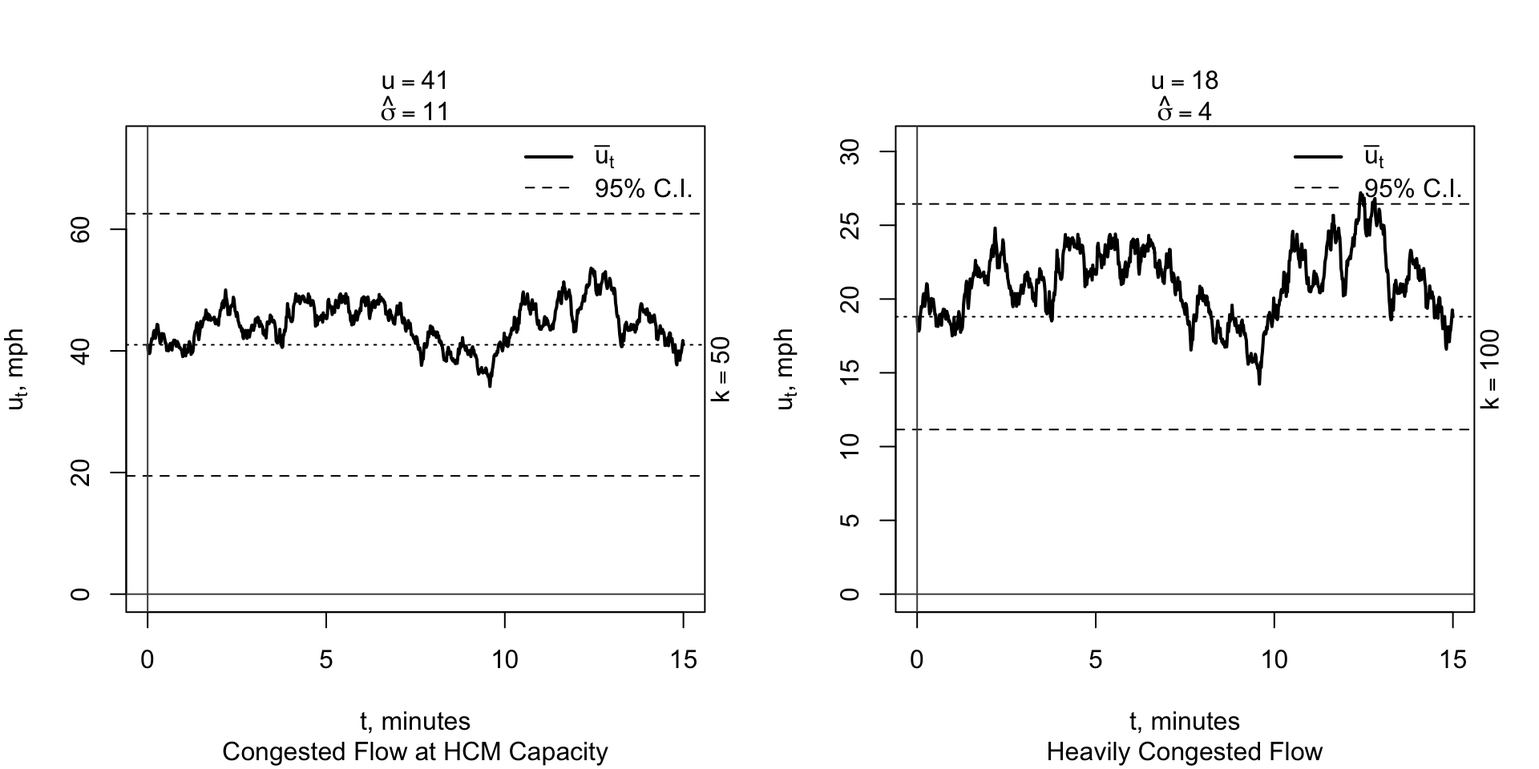
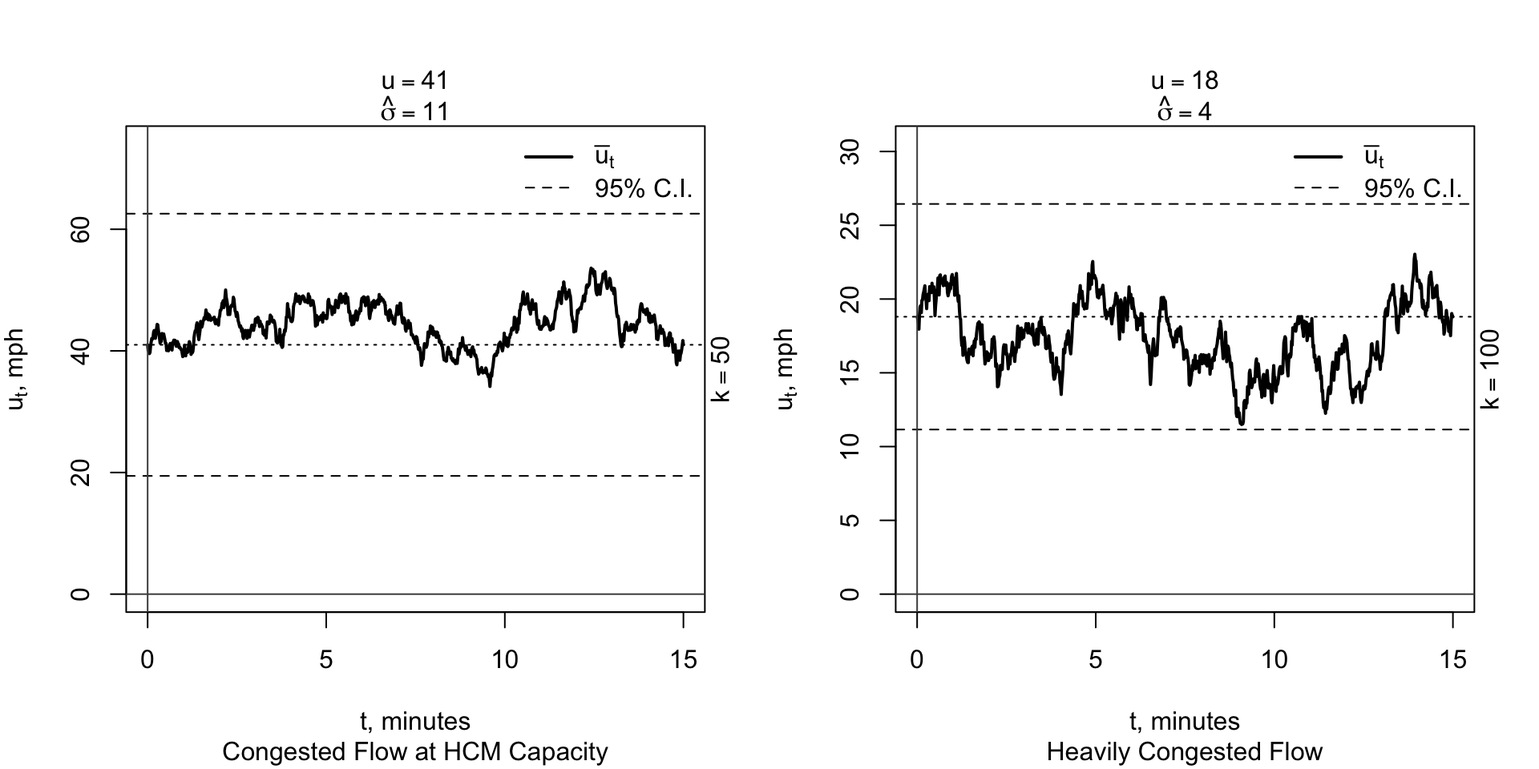
Laflamme observations

Changed region(s): [[0.5938, 0.25, 0.9688, 0.5625]]

diff --git a/Ring-Road.html b/Ring-Road.html
@@ -11,7 +11,7 @@
 
 
 
-<title>The Ring-Road Experiment</title>
+<title>Ring-Road Experiment</title>
 
 <script src="site_libs/jquery-1.11.3/jquery.min.js"></script>
 <meta name="viewport" content="width=device-width, initial-scale=1" />
@@ -174,7 +174,7 @@ $(document).ready(function () {
         <span class="icon-bar"></span>
         <span class="icon-bar"></span>
       </button>
-      <a class="navbar-brand" href="index.html">TFUHP Website</a>
+      <a class="navbar-brand" href="index.html">Cartools</a>
     </div>
     <div id="navbar" class="navbar-collapse collapse">
       <ul class="nav navbar-nav">
@@ -208,15 +208,15 @@ $(document).ready(function () {
 
 
 
-<h1 class="title toc-ignore">The Ring-Road Experiment</h1>
+<h1 class="title toc-ignore">Ring-Road Experiment</h1>
 
 </div>
 
 
 <p><strong>A Controlled Experiment</strong></p>
-<p>We continue our model building effort by simulating conditions observed on a <em>ring</em> or <em>loop road</em>. The <a href="https://www.youtube.com/watch?v=7wm-pZp_mi0">YouTube video</a> shows <span class="math inline">\(n\)</span> = 22 vehicles <span class="citation">(Sugiyama et al. 2008)</span>. The drivers cannot pass one another or enter or exit the loop. Each driver was instructed to maintain a same constant speed <span class="math inline">\(u\)</span>. The drivers cannot follow instructions. After a few sections, the traffic breaks down.</p>
-<p>Why? The video shows the vehicles to traveling at a reasonable speed. Initially, all vehicles are uniformly distributed around the circle. After a few seconds, the vehicles begin to interact because the drivers cannot maintain a constant speed. If we track a vehicle, we can see the speed will vary by a slight amount. Since their no room to move laterally, the drivers must follow and react to the situation directly in front of them.</p>
-<p>This behavior is a classic definition of <em>car-following.</em> The spacing between between vehicles, while it appears to be sufficient, is not. If other words, the traffic density <span class="math inline">\(k\)</span> is sufficiently large to cause the vehicles to interact, thus driving in a <em>congested state</em>. If there were fewer vehicles, i.e., driving in a <em>free-flow state</em>, then an individual driver could adjust his or her vehicle without affecting the vehicle behind it.</p>
+<p>We continue our model building effort by simulating conditions observed on a <em>ring</em> or <em>loop road</em>. The <a href="https://www.youtube.com/watch?v=7wm-pZp_mi0">YouTube video</a> shows <span class="math inline">\(n\)</span> = 22 vehicles <span class="citation">(Sugiyama et al. 2008)</span>. The drivers cannot pass one another or enter or exit the loop. Each driver was instructed to maintain a same constant speed <span class="math inline">\(u\)</span>. The drivers cannot follow instructions. After a few sections, the traffic breaks down, i.e., drivers cannot maintain speed <span class="math inline">\(u.\)</span></p>
+<p>Why? The video shows the vehicles to be traveling at a reasonable speed. Initially, all vehicles are uniformly distributed around the circle. After a few seconds, the vehicles begin to interact because the one or more drivers cannot maintain speed <span class="math inline">\(u\)</span>. If we track a vehicle, we can see the speed will vary by a slight amount. Since their no room to move laterally, the drivers must follow and react to the situation directly in front of them. This behavior is a classicly called <em>car-following.</em></p>
+<p>It is hypothesized that the vehicles described in the preceding paragragh are operating in a <em>congested state</em>. The spacing between vehicles, while it appears to be sufficient, is not. The number of vehicles on the road <span class="math inline">\(n\)</span> is sufficiently large to cause the vehicles to interact. Look at a pair of vehicles. If a <em>lead vehicle</em> decelerates to a slower speed than its <em>following vehicle</em> must slow down to avoid a crash. The following driver is risk averse. This interaction moves upstream causing other <em>leader-follower vehicle pairs</em> to slow down as well. If there are fewer vehicles, the space between vehicles, the <em>distance headway</em> then an individual driver can decelerate without affecting the vehicle behind it. The vehicles are operating in a <em>free-flow state</em>.</p>
 <p><strong>A Brownian Bridge Model of Speed</strong></p>
 <p>Can we explain this behavior mathematically? Consider the following approach:</p>
 <p>First, assume the speed of a vehicle to be the random variable <span class="math inline">\(U(t)\)</span> and assume the process is defined by a stationary time-series model of the form:</p>
@@ -230,39 +230,40 @@ $(document).ready(function () {
 <ul>
 <li><span class="math inline">\(k = n/2\pi r\)</span></li>
 </ul>
-<p>Knowing <span class="math inline">\(k\)</span>, select <span class="math inline">\(u\)</span> and <span class="math inline">\(\sigma\)</span>.</p>
-<p>Assigning <span class="math inline">\(u\)</span> and <span class="math inline">\(\sigma\)</span> are not clear-cut as originally envisioned. For one, <span class="math inline">\(U(t)\)</span> is a <em>microscale model</em> where driver reaction takes place on a time-scale of seconds and the density-speed plot is a <em>macroscale model</em> derived from 15-minute average data or <span class="math inline">\(\tau\)</span> data. The scales are incompatable.</p>
-<p>Second, the stationary time-series <span class="math inline">\(U(t)\)</span> model does not adequately explain driver behavior. Define the time-step equal to <span class="math inline">\(\Delta t = t_i - t_{i-1}\)</span> and for purposes of illustration, let <span class="math inline">\(\Delta t\)</span> = 1 second. Given <span class="math inline">\(Z\)</span> takes on both positive and negative values, a simulation can predict vehicle speeds flip-flopping back and forth from one second to the next. Obviously, a normal driver does not drive sporatically as described by the model. This flaw is rectified by replacing the <span class="math inline">\(\sigma Z\)</span> term with a Brownian motion term or:</p>
+<p>Knowing <span class="math inline">\(k\)</span>, select <span class="math inline">\(u\)</span> and <span class="math inline">\(\sigma\)</span>. Rewrite <span class="math inline">\(U(t)\)</span> as a function of <span class="math inline">\(k\)</span>:</p>
 <ul>
-<li><span class="math inline">\(U(t) = u + \sigma \sqrt{\Delta t} Z = u + \sigma W(t)\)</span>.</li>
+<li><span class="math inline">\(U(k,t) = u(k) + \sigma(k) * Z\)</span></li>
 </ul>
-<p><span class="math inline">\(W(t) = \sqrt{\Delta t} Z\)</span> term defines Brownian motion and is called the Wiener process. A driver will more smoothly accelerate or decelerate but without limit. Over an extended period of time, say <span class="math inline">\(\tau\)</span> = 15 minutes, speeds can reach extraordinary high or low speeds (negative traveling backwards) with this model. Of course, this is another unacceptable model.</p>
-<p>This problem is overcome by replacing <span class="math inline">\(W(t)\)</span> with a Brownian bridge model:</p>
+<p>Assigning <span class="math inline">\(u\)</span> and <span class="math inline">\(\sigma\)</span> are not clear-cut as originally envisioned. In addition to treating speed and speed volatity as functions of density, <span class="math inline">\(U(k, t)\)</span> is a <em>microscale model</em> where driver reaction takes place on a time-scale of seconds and the density-speed plot is a <em>macroscale model</em> derived from 15-minute average data or <span class="math inline">\(\tau\)</span> data. The scales are incompatable.</p>
+<p>Second, the stationary time-series <span class="math inline">\(U(k,t)\)</span> model does not adequately explain driver behavior in a rational manner. Define the time-step equal to <span class="math inline">\(\Delta t = t_i - t_{i-1}\)</span>. Given <span class="math inline">\(Z\)</span> takes on both positive and negative values, a simulation can predict vehicle speeds flip-flopping back and forth from one second to the next. Obviously, a normal driver does not drive sporatically as described by the model. This flaw is rectified by replacing the <span class="math inline">\(\sigma(k) * Z\)</span> term with a Brownian motion term or:</p>
 <ul>
-<li><span class="math inline">\(U(t) = u + \Lambda (W(t) - t/\tau * W(\tau))\)</span>,</li>
+<li><span class="math inline">\(U(k,t) = u(k) + \sigma(k) * \sqrt{\Delta t} Z = u(k) + \sigma(k) * W(\Delta t)\)</span>.</li>
 </ul>
-<p>as the following diagram illustrates for “Congested Flow at HCM Capacity” (HCM = Highway Capacity Manual) and “Heavly Congested” simulations for two <span class="math inline">\(k\)</span> assignments. After time <span class="math inline">\(\tau\)</span> = 15 minutes, the model forces a driver to travel at speed <span class="math inline">\(u\)</span> when <span class="math inline">\(\tau\)</span> = 15 minutes.</p>
+<p>where <span class="math inline">\(W(\Delta t)\)</span> is called Brownian motion and is defined as <span class="math inline">\(W(\Delta t) = \sqrt{\Delta t} * Z\)</span>. <span class="math inline">\(W(\Delta t)\)</span> is also called a Wiener process. It has an interesting property in that <span class="math inline">\(\sqrt{\Delta t}\)</span> is a measure of standard deviation. <span class="math inline">\(W(t + \Delta t) - W(t) \sim N(0, \Delta t) \sim \sqrt{\Delta t} * N(0,1)\)</span>. To simplify the discussion of the <span class="math inline">\(U(k,t)\)</span> model, we will assign <span class="math inline">\(\Delta t\)</span> = 1 and focus on <span class="math inline">\(\sigma(k)\)</span>.</p>
+<p>The simplified <span class="math inline">\(U(k,t)\)</span> model eliminates the sporatic flip-flopping described above. A driver will now more smoothly accelerate or decelerate. The model is still unacceptable over extended time periods. limit. For examples, say <span class="math inline">\(\tau\)</span> = 15 minutes, speeds can reach extraordinary high or low speeds. Negative speeds indicate vehicles are driving backward. Extraordinary high and low speeds are considered outliers because they do not represent reality.</p>
+<p>The outlier problem is overcome by replacing the Brownian motion <span class="math inline">\(U(k,t)\)</span> version of driver behavior with a <strong>Brownian bridge model</strong>:</p>
+<ul>
+<li><span class="math inline">\(U(k,t) = u(k) + \Lambda * \sigma(k) * (W(t) - t/\tau * W(\tau))\)</span>.</li>
+</ul>
+<p>The following two diagrams compare two simulations where <span class="math inline">\(k\)</span> = 50 and 100 vpm, respectively. They are labelled “Congested Flow at HCM Capacity” (HCM = Highway Capacity Manual) for <span class="math inline">\(k = 50\)</span> vpm and “Heavily Congested” simulations for <span class="math inline">\(k\)</span> = 100 vpm. The values of <span class="math inline">\(u(k)\)</span> and <span class="math inline">\(\sigma(k)\)</span> are obtained from the density-speed plot where <span class="math inline">\(\Lambda\)</span> is a model calibration factor to be discussed presently. First, we inspect the two simulations.</p>
 <p><img src="Ring-Road_files/figure-html/bridge-1.png" width="960" /></p>
-<p>Finally, there is a need for <span class="math inline">\(\Lambda\)</span>, the correction factor. If <span class="math inline">\(\Lambda\)</span> is assigned the value of 1, then the model can predict more volatile traffic speeds than shown here. By volatile the speeds can fall well outside its 95% confidence interval. The assignment of <span class="math inline">\(\Lambda\)</span> used an ad hoc, subjective procedure. A series of simulations for a given <span class="math inline">\(\Lambda\)</span>. If two many simulations fell outside the 95% CI, it was adjusted until was felt to be representative of the situation being simulated.</p>
-<p>The <span class="math inline">\(U(t)\)</span> model, a mechanistic model, <em>explains</em> driver behavior. A driver will travel at a speed in the neighborhood of <span class="math inline">\(u\)</span> over the time period from 0 to <span class="math inline">\(\tau\)</span> = 15 minutes as common sense tells us.</p>
-<p><strong>Time-Distance Trajectories</strong></p>
-<p>The <span class="math inline">\(U(t)\)</span> model was subject to another test. Does the model predict driver behavior that is similar to that shown in the YouTube video? A same instructions given to the drivers of the Yuki Sugiyama experiment are assumed for the computer simulation that produced the following <span class="math inline">\(t-x\)</span> trajectories. The drivers are instructed to maintain a constant speed <span class="math inline">\(u\)</span> and headway <span class="math inline">\(h\)</span>. The vehicles are evenly placed along the <span class="math inline">\(x\)</span> axis at <span class="math inline">\(t\)</span> = 0.</p>
-<p><img src="Ring-Road_files/figure-html/ringroad1-1.png" width="960" /></p>
-<p>As in the full-scale experiment, the simulated drivers cannot maintain a constant speed or even spacing. After a few seconds, the vehicles begin to interact and form clusters (moving queues) and the traffic breaks down. <em>Clearly, traffic volatility plays an important role.</em></p>
+<p>After time <span class="math inline">\(\tau\)</span> = 15 minutes, the Brownian bridge model forces a driver to travel at his or her initial speed <span class="math inline">\(u(k)\)</span>, the speed at time <span class="math inline">\(t\)</span> = 0. Between times <span class="math inline">\(t\)</span> = 0 and 15 minutes, the drivers are free to decelerate and accelerate, more-or-less, smoothly as would be expected.</p>
+<p>Each Brownian bridge model simulation gives a different perspective about a driver’s behavior. Some simulations suffered from the outlier problem. It is reasonable to assume that a driver will travel at a speed in the neighborhood of <span class="math inline">\(u\)</span> over a time ranging from 0 to <span class="math inline">\(\tau\)</span> = 15 minutes. We would expect that the true mean speed will lie with a 95% confidence interval (C.I.). A series of computer simulations were run, speeds plotted over time, and subjectively tested where <span class="math inline">\(\Lambda\)</span>, the calibration factor, is was initially set to one. Too many simulations fell outside the 95% C.I. range. The <span class="math inline">\(\Lambda\)</span> values were adjusted until it was felt that the situation being simulated was realistic. The <span class="math inline">\(\Lambda\)</span> values for <span class="math inline">\(k\)</span> = 50 and 100 vpm are 0.75 and 0.5, respectively. The assignment of <span class="math inline">\(\Lambda\)</span> rests on well accepted statistical analysis procedures and common sense.</p>
 <p><strong>Highway Safety</strong></p>
-<p>The <span class="math inline">\(U(t)\)</span> model incorporates two important features: (1) <em>driver performance in a car-following situation</em> and (2) <em>safety</em>. All drivers are assumed to maintain a <em>safe driving distance</em> when driving in the congested or free-flow states or</p>
+<p>The Brownian bridge model described thus far is for a single vehicle. It must be further adapted to simulate: (1) <em>driver performance in a car-following situation</em> and (2) <em>safety</em>. These two features are incorporated into the <strong>R cartools</strong> algorithms. Car-following and safety are strongly associated because drivers are typically risk averse. Drivers avoid crashes.</p>
+<p>Consider a pair of vehicles, one is designated as a <em>leader</em> and the other one designated as a <em>follower</em>. At each time-step in the simulation algorithm, the locations and speeds of the lead and following vehicles and the headway between the two vehicles are calculated. A <em>safe driving distance</em>, a distance headway, is defined by the following function:</p>
 <ul>
-<li><span class="math inline">\(h_{safe} = f(u)\)</span>,</li>
+<li><span class="math inline">\(h_{safe} = f(u(k), l_{eff})\)</span>,</li>
 </ul>
-<p>which depends on the vehicle speed <span class="math inline">\(u\)</span>. The safety effects are most easily explained with the use of the dotted lines shown in the figures above. The dotted straight line is the trajectory of the lead vehicle, assuming that its driver could maintain a constant speed. Since <span class="math inline">\(x = u * t\)</span>, the slope of the dotted straight line is <span class="math inline">\(u\)</span>. Consider a pair of vehicles, one designated as a <em>leader</em> and the other one designated as a <em>follower</em>. At each time-step, the locations and speeds of the lead and following vehicles and the headway between the two vehicles are calculated. If there is a safe headway violation, the following vehicle locations and speeds are adjusted to eliminate the violation. If the lead vehicle slows, the following vehicle must slowdown to avoid a crash if too close. Under a less dense condition, the drivers can vary their speeds without affecting one another.</p>
-<p><strong>Traffic Flow</strong></p>
-<p>Since <span class="math inline">\(n\)</span> is a constant, <span class="math inline">\(k = n/2\pi r\)</span> is a constant. The flow is a random variable, defined as:</p>
-<ul>
-<li><span class="math inline">\(Q(t) = k * U(t)\)</span></li>
-</ul>
-<p>The volatility in <span class="math inline">\(Q(t)\)</span> is explained exclusively by the volatility in <span class="math inline">\(U(t)\)</span> as defined by the Brownian bridge model of speed.</p>
-<p><strong>Summary</strong></p>
-<p>The <span class="math inline">\(Q(t) = k * U(t)\)</span> model suggests a <em>cause-effect relationship</em> exists. The speed as specified by <span class="math inline">\(u\)</span> and <span class="math inline">\(\sigma\)</span> are the causal factors and <span class="math inline">\(Q(t)\)</span> is the response variable. The probability of being in a congested state is forecast to be a function of <span class="math inline">\(k\)</span>, <span class="math inline">\(\pi(k)\)</span>.</p>
+<p>where <span class="math inline">\(u(k)\)</span> is the vehicle speed at density <span class="math inline">\(k\)</span> and <span class="math inline">\(l_{eff}\)</span> is the effective vehicle length. A driver is assumed to keep one vehicle length for each ten mph. At slow speeds, <span class="math inline">\(h_{safe}\)</span> = two-vehicle lengths or twenty-eight feet headway.</p>
+<p>If there is a safe headway violation, the following vehicle locations and speeds are adjusted to eliminate the violation. If the lead vehicle slows, the following vehicle must slowdown to avoid a crash if too close. Under a less dense condition, the drivers can vary their speeds without affecting one another.</p>
+<p>The Brownian bridge computer simulation model, <strong>rrtrials</strong>, a mechanistic model, is a function of <span class="math inline">\(k, u, \sigma\)</span> and <span class="math inline">\(l_{eff}\)</span>.</p>
+<p><strong>Time-Distance Trajectories</strong></p>
+<p>The <strong>rrtrials</strong> was subject to another test. The critical question is: Does <strong>rrtrials</strong> predict driver behavior that is similar to that shown in the YouTube video? <strong>rrtrials</strong> produced the following <span class="math inline">\(t-x\)</span> trajectories. The vehicles are evenly placed along the <span class="math inline">\(x\)</span> axis at <span class="math inline">\(t\)</span> = 0 and the drivers are given the same instructions as the drivers in the Yuki Sugiyama experiment. They are instructed to maintain a constant speed <span class="math inline">\(u\)</span> and headway <span class="math inline">\(h\)</span>.</p>
+<p><img src="Ring-Road_files/figure-html/ringroad1-1.png" width="960" /></p>
+<p>As in the full-scale experiment, the simulated drivers cannot maintain a constant speed or even spacing. After a few seconds, the vehicles begin to interact and form clusters (moving queues) and cannot maintain the constant speeds <span class="math inline">\(u\)</span> is either simulation.</p>
+<p>The volatity effects of <span class="math inline">\(\sigma(k)\)</span> are easily evaluated with visual inspection of the dotted lines shown in the figures above. The dotted straight line is the trajectory of the lead vehicle, assuming that its driver could maintain a constant speed <span class="math inline">\(u\)</span> with <span class="math inline">\(\sigma(k)\)</span> = 0. Since <span class="math inline">\(x = u * t\)</span>, the slope of the dotted straight line is <span class="math inline">\(u\)</span>. Most vehicles in the <strong>rrtrials</strong> simulation tend to lose speed.</p>
+<p>Given these results, <strong>rrtrials</strong> simulator matches the results observed in the controlled experiment. While there are many variables that are needed to define the results, speed volatility <span class="math inline">\(\sigma\)</span> and the Brownian bridge <span class="math inline">\(U(k,t)\)</span> are most important.</p>
 <p><strong>Reference</strong></p>
 <div id="refs" class="references">
 <div id="ref-1367-2630-10-3-033001">

diff --git a/about.html b/about.html
@@ -174,7 +174,7 @@ $(document).ready(function () {
         <span class="icon-bar"></span>
         <span class="icon-bar"></span>
       </button>
-      <a class="navbar-brand" href="index.html">TFUHP Website</a>
+      <a class="navbar-brand" href="index.html">Cartools</a>
     </div>
     <div id="navbar" class="navbar-collapse collapse">
       <ul class="nav navbar-nav">
@@ -213,7 +213,7 @@ $(document).ready(function () {
 </div>
 
 
-<p>To develop a successful transportaion operation and management plan, there is a clear need for understanding of the process being operated and managed. The decision-making framework presented in the <strong>Drivers</strong> section, <em>The Learning Process</em>, will be used here and in subsequent analyses. It is worth repeating that our principal aim is to explain highway performance realisticly using simple, easy-to-understand models. This is not easy task because traffic data are noisy. A conceptual model derived from a simple sampling experiment was propoed:</p>
+<p>To develop a successful transportaion operation and management plan, there is a clear need for understanding of the process being operated and managed. The decision-making framework presented in the <strong>Drivers</strong> section, <em>The Learning Process</em>, will be used here and in subsequent analyses. It is worth repeating that our principal aim is to explain highway performance realisticly using simple, easy-to-understand models. This is not easy task because traffic data are noisy. A conceptual model derived from a simple sampling experiment is proposed:</p>
 <p><span class="math inline">\(\pi(n) = P(X = 1|N = n) = P(U &lt; u^*|N = n)\)</span>,</p>
 <p>The model has limitations:</p>
 <ol style="list-style-type: decimal">
@@ -226,24 +226,26 @@ $(document).ready(function () {
 <ol style="list-style-type: decimal">
 <li>The <em>fundational relationship</em>, <span class="math inline">\(q = k * u\)</span>, is introduced into the analysis where <span class="math inline">\(u\)</span>, <span class="math inline">\(k\)</span> and <span class="math inline">\(q\)</span> are defined to be traffic speed, measured in miles per hour (mph), traffic density, measured in vehicles per mile per lane (vpm) and traffic flow, measured in vehicles per hour per lane (vph), respectively.</li>
 <li>The findings from a <strong>ring-road</strong> experiment, a controlled experiment, is introduced into the analysis. A critical feature of the experiment is number of vehicles in the investigation is that <span class="math inline">\(n\)</span> is fixed number, a constant.</li>
-<li>Concepts of derived from elementary car following models are introduced into the analysis to account for driver reactions due to changes of traffic behavior over time. Vehicle length <span class="math inline">\(l\)</span>, measured in feet, and safe driving headway <span class="math inline">\(h = h(u)\)</span>, measured in feet and function of speed <span class="math inline">\(u\)</span> are also introduced.</li>
+<li>Concepts of derived from elementary car following models are introduced into the analysis to account for driver reactions due to changes of traffic behavior over time. Vehicle length or effective length <span class="math inline">\(l_{eff}\)</span>, measured in feet, and safe driving headway <span class="math inline">\(h_{safe} = f(u)\)</span>, measured in feet and function of speed <span class="math inline">\(u\)</span> are also introduced.</li>
 </ol>
-<p>It is worth noting that an exploratory data analysis is primary focus used in this section. A logistic regression model, denoted as <span class="math inline">\(\pi(k)\)</span>, will replace <span class="math inline">\(\pi(n)\)</span> where traffic density <span class="math inline">\(k\)</span> is an explanatory variable.</p>
+<p>It is worth noting that an exploratory data analysis is primary focus used in this section. A logistic regression model, denoted as <span class="math inline">\(\pi(k)\)</span>, will replace <span class="math inline">\(\pi(n)\)</span> where traffic density <span class="math inline">\(k\)</span> is an explanatory variable. Traffic density is defined as the number of vehicles per unit length <span class="math inline">\(l\)</span> or <span class="math inline">\(k = n/l\)</span>.</p>
 <p><strong>Exploratory Data Analysis</strong></p>
-<p>Our first step is to glean as much information as possible from an exploratory data analysis. <em>Raw, real-world data</em>, data collected on the northbound lane on interstate I-93 in Salem, New Hampshire contains 20,656 recordings of <span class="math inline">\(q\)</span>, <span class="math inline">\(k\)</span> and <span class="math inline">\(u\)</span> that were made over a period of eight months. The speed recordings are aggregate values, estimated as space-mean speeds <span class="math inline">\(u = n/(1/\sum u_i)\)</span> where <span class="math inline">\(u_i\)</span> is an individual observation made in a 15-minute interval, <span class="math inline">\(i = 1,2,..., n\)</span> is vehicle identification number, and <span class="math inline">\(n\)</span> is the total number of vehicles observed in the interval. The flow for the interval is calculated as <span class="math inline">\(q = n/\tau\)</span> where <span class="math inline">\(\tau\)</span> is 15-minutes. The density is derived from the <em>fundamental relationship</em> of traffic flow <span class="math inline">\(q = k * u\)</span>. Thus, the density is estimated as <span class="math inline">\(k = q/u\)</span>.</p>
-<p>Next, we look for meaningful relationships using scatter plots and box plots. We also keep in the back of our minds that the <strong>ring-road</strong> experiment that <span class="math inline">\(n\)</span> is fixed and can be easily transformed to a density measurement as <span class="math inline">\(k = n/l\)</span> because the road length <span class="math inline">\(l\)</span> is also a fixed number. Once these relationships are revealed, the next steps is to develop mathematical models that capture these relationships. Since the <em>Learning Process</em> is used, models are critically analyzed. The aim is to justify the replacement of the <span class="math inline">\(\pi(n)\)</span> model with a logistic model of traffic density <span class="math inline">\(\pi(k)\)</span>.</p>
+<p>Our first step is to glean as much information as possible from an exploratory data analysis. <em>Raw, real-world data</em>, data collected on the northbound lane on interstate I-93 in Salem, New Hampshire contains 20,656 recordings of <span class="math inline">\(q\)</span>, <span class="math inline">\(k\)</span> and <span class="math inline">\(u\)</span>. The recording were made over a contiguous period of eight months. The individual observations of <span class="math inline">\(q\)</span>, <span class="math inline">\(k\)</span> and <span class="math inline">\(u\)</span> are estimated as follows: (1) A flow is estimated as <span class="math inline">\(q = m/\tau\)</span> where <span class="math inline">\(m\)</span> is a vehicle count, the total number of vehicles observed over a 15-minute time interval or <span class="math inline">\(\tau\)</span> = 15-minutes. (2) Speed is estimated as space-mean speed where <span class="math inline">\(u = m/(1/\sum u_j)\)</span> where <span class="math inline">\(u_j\)</span> is a radar speed recording for vehicle <span class="math inline">\(j = 1,2,..., m\)</span>. (3) Density is derived from the <em>fundamental relationship</em> of traffic flow <span class="math inline">\(q = k * u\)</span> or <span class="math inline">\(k = q/u\)</span>.</p>
+<p>Next, we look for meaningful relationships using scatter plots and box plots. We also keep in the back of our minds that the <strong>ring-road</strong> experiment that <span class="math inline">\(n\)</span> is fixed and can be easily transformed to a density measurement as <span class="math inline">\(k = n/l\)</span> because the road length <span class="math inline">\(l\)</span> is also a fixed number.</p>
+<p>Once these relationships are revealed, the next steps is to develop mathematical models that capture these relationships. Since the <em>Learning Process</em> is used, models are critically analyzed. The aim is to justify the replacement of the <span class="math inline">\(\pi(n)\)</span> model with a logistic model of traffic density <span class="math inline">\(\pi(k)\)</span>.</p>
 <p><img src="about_files/figure-html/speedplot-1.png" width="384" /></p>
-<p>The <strong>Flow-Speed Plot</strong> reveals much about the traffic at the site. As mentioned many times previously, the data are <em>extremely noisy</em>, making it difficult to reveal clear-cut patterns in the data. By using scaling and color shading of the <span class="math inline">\(k\)</span> dots, the scatter plot become enhanced, making it easier to reveal patterns in the data. The smaller/black dots indicate fewer vehicles per mile than the large/blue dots.</p>
-<p>Even though the data are noisy, patterns are revealed. For one, speeds between 60 and 80 an increase in flow. The densities over this range increase but for the most part, do not exceed <span class="math inline">\(k \le 70\)</span> vpm. Given these results, the critical speed was chosen to be <span class="math inline">\(u^* =\)</span> 50 mph. Low speeds and high densities, <span class="math inline">\(u \le u^*\)</span> and <span class="math inline">\(k &gt; 70\)</span> vpm, tend to be associated with congested state <span class="math inline">\(X = 1\)</span> or <span class="math inline">\(U &lt; u^*\)</span>.</p>
-<p>Since the “controlled” ring-road experiment used a fixed value of <span class="math inline">\(k\)</span>, the relationship between <span class="math inline">\(k\)</span> and <span class="math inline">\(u\)</span> was explored with the <strong>Box Plot of Density-Speed</strong>. To construct this diagram, the speeds were sorted and placed into bins. For example, the labeled as <span class="math inline">\(k^*\)</span> = 45 vpm consists of observations ranging 42.5 to 47.5 vpm. This value of <span class="math inline">\(k^*\)</span> is taken from the Highway Capacity Manual (HCM), which defines it to be the roadway capacity for this geometric design.</p>
-<p>Visual inspection reveals that the chance of driving in a free-flow state, <span class="math inline">\(u^* &gt; 50\)</span>, is greater when <span class="math inline">\(k^* \le 45\)</span> vpm. The interquartile range of speed is extremely tight for <span class="math inline">\(k^* \le 45\)</span> vpm. Excluding outliners, a driver can be assured that speeds of 70 mph or more can be expected. With the exception of the bin at <span class="math inline">\(k\)</span> = 50 vpm, speeds considerably less than 25 mph is expected for <span class="math inline">\(k^* \ge 55\)</span> vpm. It is impossible to explain why so many congested speed observations are located in the <span class="math inline">\(0 &lt; k \le 50\)</span> range. For <span class="math inline">\(k &gt; 50\)</span> vpm, a good case can be made that a congested state will be observed.</p>
+<p>The <strong>Flow-Speed Plot</strong> reveals much about the traffic at the site. As mentioned many times previously, the data are <em>extremely noisy</em>, making it difficult to reveal clear-cut patterns in the data. By using scaling and color shading of the <span class="math inline">\(k\)</span> dots, the scatter plot becomes enhanced, making it somewhat easier but still difficult to reveal patterns or associations in the data.</p>
+<p>The scatter plot is most helpful in defining the free-flow and congested states. A critical speed is chosen to be $u^* = $ 50 mph. A <em>free-flow</em> state, <span class="math inline">\(X = 0\)</span>, satisfies the inequality <span class="math inline">\(u &gt; u^*\)</span> and a congested state, <span class="math inline">\(X = 1\)</span>, satisfies the inequality <span class="math inline">\(u \leq u^*\)</span>. The smaller/black dots indicate fewer vehicles per mile than the large/blue dots. Low speeds and high densities, <span class="math inline">\(u \le u^*\)</span> and <span class="math inline">\(k &gt; 70\)</span> vpm, tend to be associated with congested state <span class="math inline">\(X = 1\)</span>.</p>
+<p>Since the “controlled” ring-road experiment used a fixed value of <span class="math inline">\(k\)</span>, the relationship between <span class="math inline">\(k\)</span> and <span class="math inline">\(u\)</span> was explored with the <strong>Box Plot of Density-Speed</strong>. To construct this diagram, the speeds were sorted and placed into bins. For example, the labeled as <span class="math inline">\(k^*\)</span> = 45 vpm consists of observations ranging 42.5 to 47.5 vpm. The Highway Capacity Manual (HCM) defines capacity of a interstate freeway lane to be <span class="math inline">\(k^*\)</span> = 45 vpm.</p>
+<p>Visual inspection reveals that the chance of driving in a free-flow state, <span class="math inline">\(X = 0\)</span>, is greater when <span class="math inline">\(k^* \le 45\)</span> vpm. <span class="math inline">\(X = 1\)</span> speeds are considerably less than 25 mph when <span class="math inline">\(k^* \ge 50\)</span> vpm. It is impossible to explain why so many congested speed observations are located in the <span class="math inline">\(0 &lt; k \le 50\)</span> range. For <span class="math inline">\(k &gt; 50\)</span> vpm, a good case can be made that a congested state will be observed.</p>
 <p><img src="about_files/figure-html/speedboxplot-1.png" width="480" /></p>
 <p><strong>A Logistic Regression Model</strong></p>
 <p>The data set that was used to create the <strong>Box Plot of Density-Speed</strong> was also used to fit a <span class="math inline">\(\pi(k)\)</span> model, a logistic model of the form,</p>
 <p><span class="math inline">\(\pi(k) = \frac{exp(\alpha + \beta * k)}{1 + exp(\alpha + \beta * k)}\)</span></p>
-<p>where <span class="math inline">\(\alpha\)</span> = -12.3 and <span class="math inline">\(\beta\)</span> = 0.265. This model replaces the <span class="math inline">\(\pi(n)\)</span> model above. The data set consists of <span class="math inline">\(i\)</span> = 1,2,…,24 observations of <span class="math inline">\(k_i\)</span> and proportion estimates of <span class="math inline">\(p_i\)</span> where <span class="math inline">\(p_i = m_i/n_i\)</span>. <span class="math inline">\(m_i\)</span> and <span class="math inline">\(n_i\)</span> are equal to the number of speed observations satisfying the equality <span class="math inline">\(u &lt; u^*\)</span> and to the number of <span class="math inline">\(k_i\)</span> observations in bin <span class="math inline">\(i\)</span>. The <span class="math inline">\(p_i\)</span> values are shown in the following plot as solid circles and the forecasts of <span class="math inline">\(\pi[k_i]\)</span> are shown as open circles. There is a good model fit. <span class="math inline">\(\pi(k = 45)\)</span> and <span class="math inline">\(\pi(k = 50)\)</span> = 0.41 and 0.8, respectively.</p>
+<p>where <span class="math inline">\(\alpha\)</span> = -12.3 and <span class="math inline">\(\beta\)</span> = 0.265. This model replaces the <span class="math inline">\(\pi(n)\)</span> model above. The data set consists of <span class="math inline">\(i\)</span> = 1,2,…,24 density bins, denoted as <span class="math inline">\(k_i\)</span>, and <span class="math inline">\(p_i\)</span> proportions where <span class="math inline">\(p_i = m_i/n_i\)</span> <span class="math inline">\(m_i\)</span> and <span class="math inline">\(n_i\)</span> are equal to the number of speed observations satisfying the equality <span class="math inline">\(u &lt; u^*\)</span> and to the number of <span class="math inline">\(k_i\)</span> observations in bin <span class="math inline">\(i\)</span>. The <span class="math inline">\(p_i\)</span> values are shown in the following plot as solid circles and the forecasts of <span class="math inline">\(\pi(k_i)\)</span> are shown as open circles. The model fits the data well.</p>
 <p><img src="about_files/figure-html/logisticmodel-1.png" width="480" /></p>
-<p>The logistic regression model of <span class="math inline">\(\pi(k)\)</span> uses <em>macroscale data</em>, data averaged over 15-minute intervals. Driver reaction takes place in time measured in seconds. To fully understand an explain driver behavior, a <em>microscale model</em>, a time series model of speed <span class="math inline">\(U(t)\)</span> where is measured in second, is introduced.</p>
+<p>The model forecasts that a freeway will be in a congested state <span class="math inline">\(X = 1\)</span> with a probability of <span class="math inline">\(\pi(k^* = 45)\)</span> = 0.41 at the HCM <span class="math inline">\(k^*\)</span> = 45 vpm. A slight increase in traffic density to 50 shows a significant increase in the forecast, <span class="math inline">\(\pi(k = 50)\)</span> = 0.8. This analysis shows the importance of traffic density in explaining the risk of operating in a congested state.</p>
+<p>The logistic regression model of <span class="math inline">\(\pi(k)\)</span> uses <em>macroscale data</em>, data averaged over 15-minute intervals. Driver reaction to various traffic stimuli takes place in time measured in seconds. To more fully explain and understand the traffic behavior, a <em>microscale model</em>, a time series model of speed <span class="math inline">\(U(t)\)</span> where is measured in second, is introduced.</p>
 
 
 

diff --git a/index.html b/index.html
@@ -11,7 +11,7 @@
 
 
 
-<title>TFUHP: Tools For UNDERSTANDING Highway Performance</title>
+<title>cartools: Tools For Uunderstanding Highway Performance</title>
 
 <script src="site_libs/jquery-1.11.3/jquery.min.js"></script>
 <meta name="viewport" content="width=device-width, initial-scale=1" />
@@ -174,7 +174,7 @@ $(document).ready(function () {
         <span class="icon-bar"></span>
         <span class="icon-bar"></span>
       </button>
-      <a class="navbar-brand" href="index.html">TFUHP Website</a>
+      <a class="navbar-brand" href="index.html">Cartools</a>
     </div>
     <div id="navbar" class="navbar-collapse collapse">
       <ul class="nav navbar-nav">
@@ -208,7 +208,7 @@ $(document).ready(function () {
 
 
 
-<h1 class="title toc-ignore">TFUHP: Tools For UNDERSTANDING Highway Performance</h1>
+<h1 class="title toc-ignore">cartools: Tools For Uunderstanding Highway Performance</h1>
 
 </div>
 
@@ -224,7 +224,7 @@ $(document).ready(function () {
 <p>Some of these tools are used for this <a href="https://pjossenbruggen.github.io/GP/about.html">GP</a> site. Clicking on <strong>Bottleneck</strong> and <strong>Ring Road</strong> menu items show a variety of visual images. At the time of this writing, the animated and interactive features have not been initiated on <a href="https://pjossenbruggen.github.io/GP/about.html">GP</a>. These features have been implemented on my local computer and will be made available soon. Now lets turn attention to transportation issues.</p>
 <p>“In many industrialized nations today, highways present engineeres and governments with formidable challenges relating to safety, sustainability, environmental impacts, congestion mitigation, and deteriorating infrastructure. As a result, highways are often viewed from a perspective of the many challenges as they present as opposed to the benefits that they provide. <span class="citation">(Mannering and Washburn 2017)</span>”</p>
 <p><strong>Aims</strong></p>
-<p>The <strong>TFUHP</strong> package is designed for college students studying transportation engineering and for transportation professionals and researchers interested in understanding the complex relationships associated with freeway performance and traffic breakdown. Emphasis is placed on: (1) <em>Traffic noise or volatility</em>; (2) <em>Driver behavior and safety</em>; and (3) <em>Stochastic modeling</em>, models that explain breakdown and performance.</p>
+<p>The <strong>cartools</strong> package is designed for college students studying transportation engineering and for transportation professionals and researchers interested in understanding the complex relationships associated with freeway performance and traffic breakdown. Emphasis is placed on: (1) <em>Traffic noise or volatility</em>; (2) <em>Driver behavior and safety</em>; and (3) <em>Stochastic modeling</em>, models that explain breakdown and performance.</p>
 <p>The website contains five menu bar items:</p>
 <ol style="list-style-type: decimal">
 <li><h5 id="drivers-self-optimizers.-meeting-the-challenges."><strong>Drivers:</strong> <em>Self Optimizers</em>. Meeting the challenges.</h5></li>
@@ -235,7 +235,7 @@ $(document).ready(function () {
 </ol>
 <p><strong>Analytical Tools</strong></p>
 <p>Newtons Laws of dynamics, fundamentals of trafic flow theory (TFT), probabilistic modeling and statistics are used in this package. The goal is to identify key factors that initiate a traffic breakdown event and cause delay by building upon current knowledge - the “classical methods” of transportation analysis - and the latest advances in computation.</p>
-<p>The principal aim of this work is to explain highway performance as simply as possible. Topics are introduced in a step-by-step manner. The <strong>TFUHP</strong> package is derived and developed from a diverse set of resources:</p>
+<p>The principal aim of this work is to explain highway performance as simply as possible. Topics are introduced in a step-by-step manner. The <strong>cartools</strong> package is derived and developed from a diverse set of resources:</p>
 <ul>
 <li><p>Traffic analysis: <span class="citation">Banks (1998)</span>, <span class="citation">Daganzo (1997)</span>, <span class="citation">Elefteriadou (2014)</span>, <span class="citation">Ossenbruggen (2017)</span>, <span class="citation">Sugiyama et al. (2008)</span>, <span class="citation">Trieber and Kesting (2013)</span></p></li>
 <li><p>Probability and statistics: <span class="citation">Agresti (1990)</span>, <span class="citation">Hosmer and Lemeshow (1989)</span>, <span class="citation">Iacus (2008)</span>, <span class="citation">Vandeale (1983)</span></p></li>

diff --git a/performance.html b/performance.html
@@ -174,7 +174,7 @@ $(document).ready(function () {
         <span class="icon-bar"></span>
         <span class="icon-bar"></span>
       </button>
-      <a class="navbar-brand" href="index.html">TFUHP Website</a>
+      <a class="navbar-brand" href="index.html">Cartools</a>
     </div>
     <div id="navbar" class="navbar-collapse collapse">
       <ul class="nav navbar-nav">
@@ -245,6 +245,14 @@ $(document).ready(function () {
 <p><strong>Traffic Noise</strong></p>
 <p>A quick read of the <strong>Overview</strong> may give the impression that the approach, a package of computer algorithms, will be difficult to understand and overwhelming to implement. Words, like complex, dynamics, theory, parsimonious, stochastic and model integration can be daunting. No question that designing and operating a transportation system are difficult problems. By disecting the problem into manageable pieces and synthesizing the results from the individual pieces brings clarity to the process.</p>
 <p>The mathematics behind the animation is relatively simple. Of course, the Brownian motion model shown here can be adapted to other situtations. This will be illustrated presently. The ultimate aim of using <a href="https://github.com/PJOssenbruggen/Basic">trfhp</a> package tools is to improve our chances of mitigating congestion and improving performance using the simple mathematical and graphical tools.</p>
+<p><strong>Traffic Flow</strong></p>
+<p>Since <span class="math inline">\(n\)</span> is a constant, <span class="math inline">\(k = n/2\pi r\)</span> is a constant. The flow is a random variable, defined as:</p>
+<ul>
+<li><span class="math inline">\(Q(t) = k * U(t)\)</span></li>
+</ul>
+<p>The volatility in <span class="math inline">\(Q(t)\)</span> is explained exclusively by the volatility in <span class="math inline">\(U(t)\)</span> as defined by the Brownian bridge model of speed.</p>
+<p><strong>Summary</strong></p>
+<p>The <span class="math inline">\(Q(t) = k * U(t)\)</span> model suggests a <em>cause-effect relationship</em> exists. The speed as specified by <span class="math inline">\(u\)</span> and <span class="math inline">\(\sigma\)</span> are the causal factors and <span class="math inline">\(Q(t)\)</span> is the response variable. The probability of being in a congested state is forecast to be a function of <span class="math inline">\(k\)</span>, <span class="math inline">\(\pi(k)\)</span>.</p>
 <div id="refs" class="references">
 <div id="ref-1367-2630-10-3-033001">
 <p>Sugiyama, Yuki, Minoru Fukui, Macoto Kikuchi, Katsuya Hasebe, Akihiro Nakayama, Katsuhiro Nishinari, Shin-ichi Tadaki, and Satoshi Yukawa. 2008. “Traffic Jams Without Bottlenecks—Experimental Evidence for the Physical Mechanism of the Formation of a Jam.” <em>New Journal of Physics</em> 10 (3):033001. <a href="http://stacks.iop.org/1367-2630/10/i=3/a=033001" class="uri">http://stacks.iop.org/1367-2630/10/i=3/a=033001</a>.</p>

diff --git a/bottleneck.html b/bottleneck.html
@@ -174,7 +174,7 @@ $(document).ready(function () {
         <span class="icon-bar"></span>
         <span class="icon-bar"></span>
       </button>
-      <a class="navbar-brand" href="index.html">TFUHP Website</a>
+      <a class="navbar-brand" href="index.html">Cartools</a>
     </div>
     <div id="navbar" class="navbar-collapse collapse">
       <ul class="nav navbar-nav">
